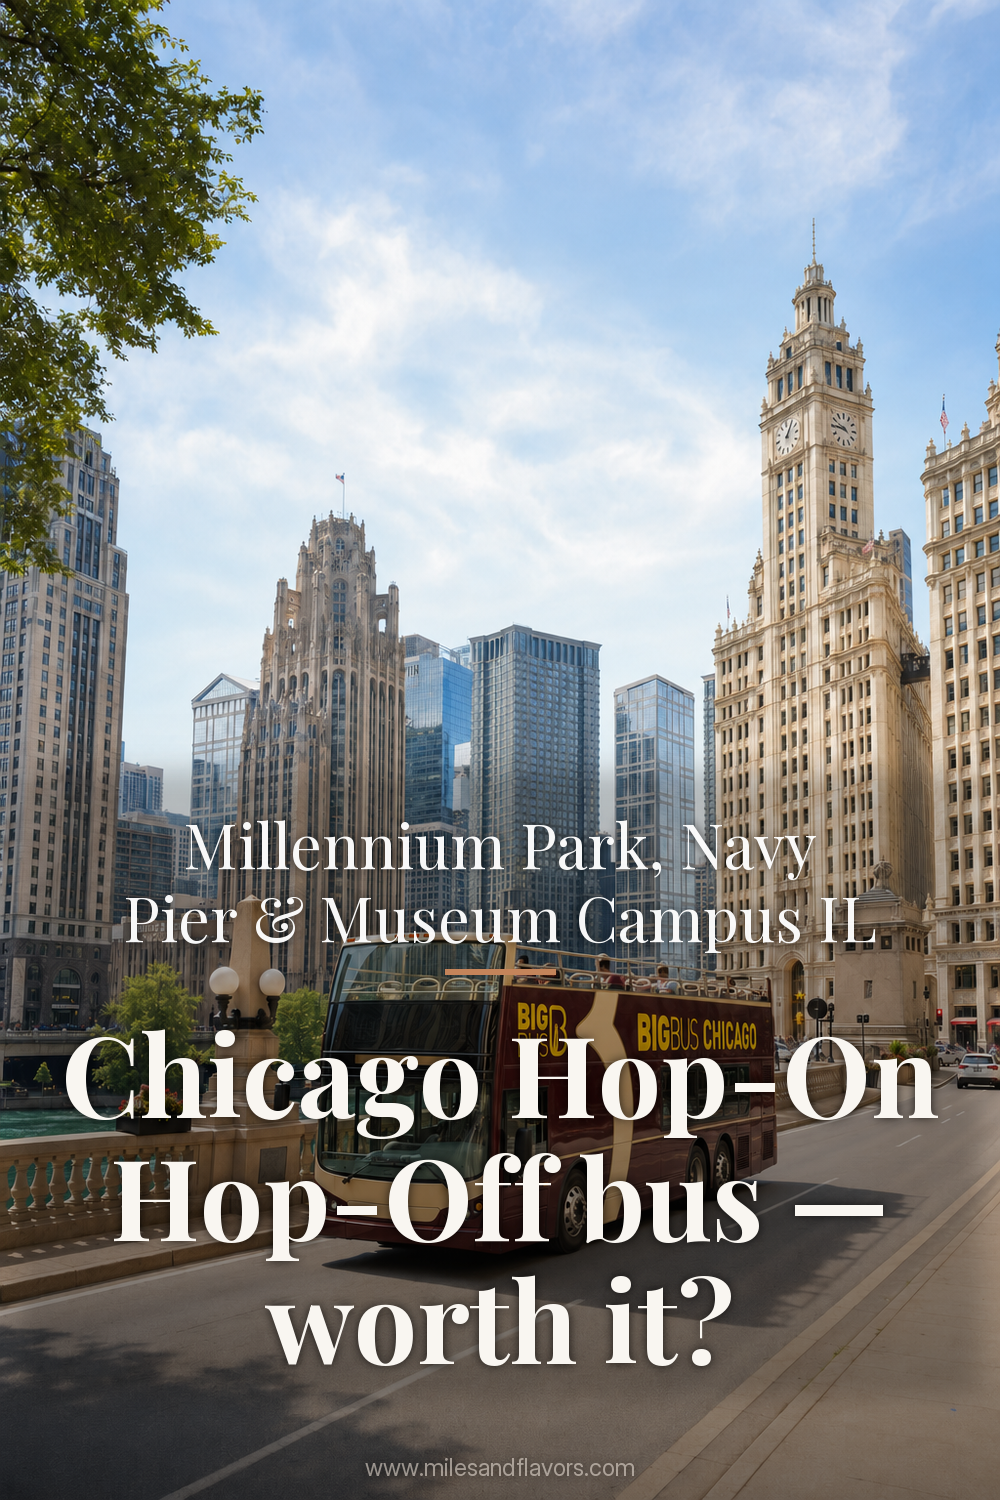
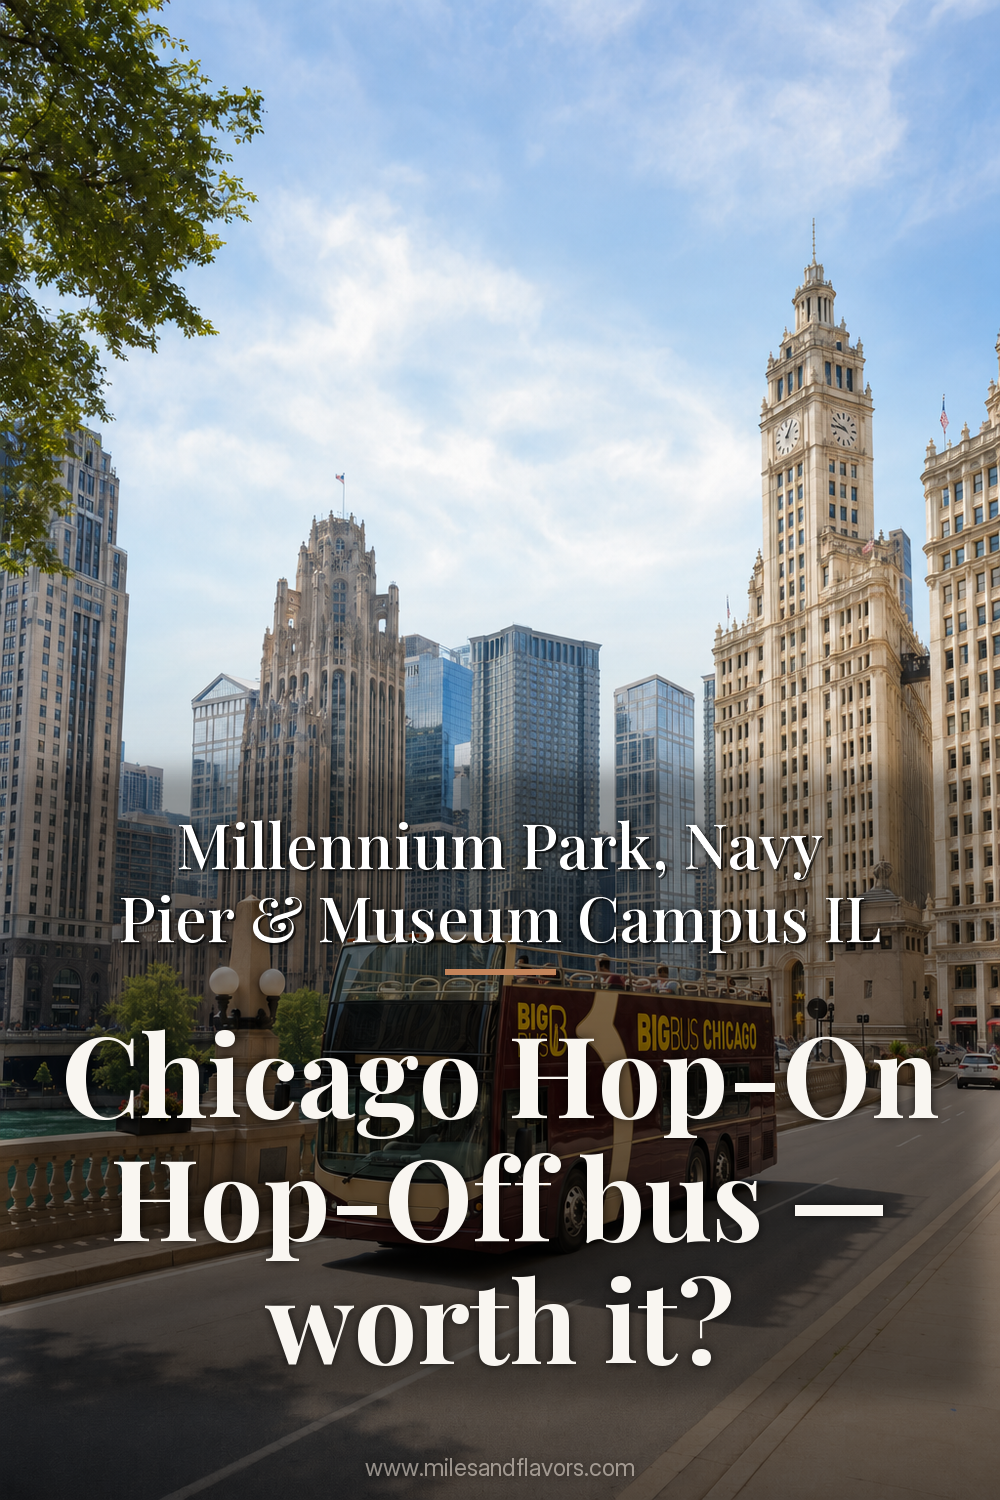
render.py: subtitle contrast fix + pin-suffix image priority
- subtitle: weight 400→500, explicit shadow, overlay alpha 55→82,
  gradient starts at 38% with softer exp for stronger bottom coverage
- imgs_in: prefer_suffix param — pin2 rows look for -2.jpg first,
  overrides EZT.jpg priority for anchor-link etap images

diff --git a/render.py b/render.py
@@ -71,10 +71,17 @@ def cover(im, w, h):
 def load(path):
     return Image.open(path).convert("RGB")
 
-def imgs_in(d):
+def imgs_in(d, prefer_suffix=None):
     if not d or not os.path.isdir(d): return []
     files = sorted([f for f in glob.glob(os.path.join(d,"*")) if f.lower().endswith(EXT)],
                    key=os.path.getmtime, reverse=True)  # legfrissebb először
+    # Pin-specifikus kép: pl. -2.jpg pin2-höz — ez megelőz mindent
+    if prefer_suffix:
+        preferred = [f for f in files
+                     if os.path.splitext(os.path.basename(f))[0].endswith(prefer_suffix)]
+        if preferred:
+            return preferred + [f for f in files if f not in preferred]
+    # EZT.jpg fallback (ha nincs pin-specifikus)
     ezt = [f for f in files if os.path.basename(f).upper() == "EZT.JPG"]
     return ezt + [f for f in files if f not in ezt] if ezt else files
 
@@ -146,10 +153,10 @@ def zone_gradient(base, zone):
             dist = abs(t - 0.50)
             a = int((0.06 + dist * 0.88) * 255)
         else:  # bottom
-            if t < 0.45:   a = 0
+            if t < 0.38:   a = 0
             else:
-                frac = (t - 0.45) / 0.55
-                a = int((frac ** 1.6) * 0.52 * 255)
+                frac = (t - 0.38) / 0.62
+                a = int((frac ** 1.3) * 0.65 * 255)
         pix.append(min(255, a))
     col = Image.new("L", (1, H)); col.putdata(pix)
     grad.putalpha(col.resize((W, H)))
@@ -197,7 +204,7 @@ def parse_template(template):
         overlay_alpha = 50
         brightness = 1.0
     else:
-        overlay_alpha = 55
+        overlay_alpha = 82
         brightness = 1.0
     return zone_override, overlay_alpha, brightness
 
@@ -282,8 +289,11 @@ def render_hybrid_pin(bold, light, photos, zone_override=None, overlay_alpha=90,
     # Subtitle / hook (SWA: kis szöveg a főcím FELETT)
     if light:
         for ln in L2:
-            fd.text((W//2, y), ln, font=font(PLAYFAIR, t2, 400),
-                    fill=(*WHITE, 245), anchor="ma")
+            # Árnyék a subtitle mögé — extra kontrasztért mobil nézeten
+            fd.text((W//2 + 2, y + 2), ln, font=font(PLAYFAIR, t2, 500),
+                    fill=(0, 0, 0, 160), anchor="ma")
+            fd.text((W//2, y), ln, font=font(PLAYFAIR, t2, 500),
+                    fill=(*WHITE, 255), anchor="ma")
             y += lh2
         # Terrakotta accent vonal
         y += acc_gap
@@ -321,7 +331,8 @@ def render_one(r, col):
     light = r[col["Pin light (vekony)"]]
     pin_no = r[col["Pin #"]]
 
-    files = imgs_in(os.path.join(IMG_DIR, slug))
+    pin_suffix = f"-{pin_no}" if pin_no and str(pin_no).isdigit() and int(pin_no) > 0 else None
+    files = imgs_in(os.path.join(IMG_DIR, slug), prefer_suffix=pin_suffix)
     if not files:
         cldir = os.path.join(IMG_DIR, cluster(slug))
         sub = None
